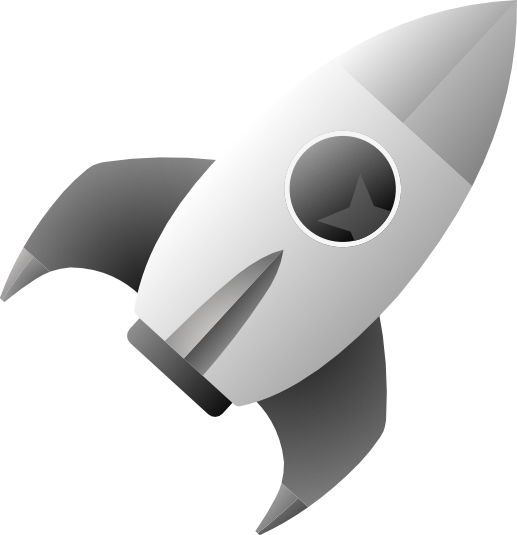
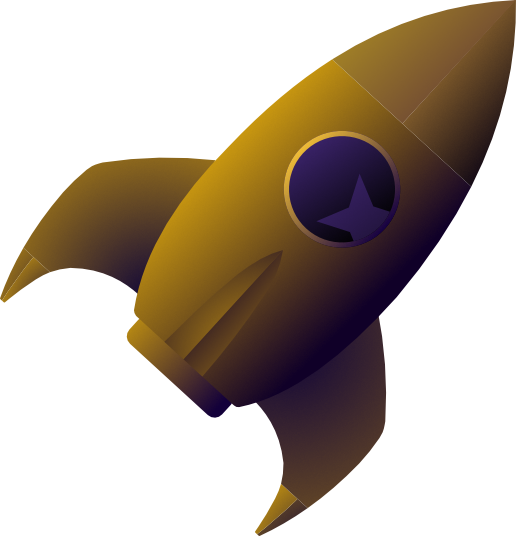
Initial coloured version test

diff --git a/music_space.js b/music_space.js
@@ -15,24 +15,14 @@ class Star {
     this.framesSinceChange = Math.random() * 400;
   }
   draw() {
-    fill(255, 255, 255, 255);
+    fill(227, 176, 48);
     ellipse(this.x, this.y, this.size, this.size);
   }
   drawSized(sizeMod, points) {
-    fill(255, 255, 255, 255);
+    fill(255, 208, 89);
     stroke(0, 0, 0, 40);
 
-    // if(this.framesSinceChange <= 0){
-
-    //     if(sizeMod > 0.3 && Math.random() > 0.5 && !this.changeSize){
-    //       this.changeSize = true;
-    //       this.framesSinceChange = 60;
-    //     } else if (sizeMod < 0.3 && Math.random() > 0.4 && this.changeSize){
-    //       this.changeSize = false;
-    //       this.framesSinceChange = 400;
-    //     }
-
-    // }
+    // change size every so often
     this.framesSinceChange--;
     if (this.framesSinceChange <= 0) {
       this.changeSize = !this.changeSize;
@@ -43,12 +33,8 @@ class Star {
     push()
     if (this.changeSize) {
       star(this.x, this.y, this.size * sizeMod, this.size * sizeMod * 0.25, points);
-      // this.drawStarGlow(sizeMod);
-
     } else {
       star(this.x, this.y, this.size * 0.4, this.size * 0.1, points);
-      // this.drawStarGlow(sizeMod);
-     
     }
     pop();
   }
@@ -59,7 +45,7 @@ class Star {
     // make overlay style ADD
     blendMode(ADD);
     radialGradient(this.x, this.y, 0,
-      this.x, this.y, this.size * sizeMod * 20, color(255, 255, 255, 3), color(0, 0, 0, 0));
+      this.x, this.y, this.size * sizeMod * 20, color(255, 208, 89, 3), color(0, 0, 0, 0));
     circle(this.x, this.y, this.size * sizeMod * 25 + 100);
     pop();
 
@@ -268,8 +254,8 @@ function drawPlanet(bass, counter) {
 
   // bottom layer
   push();
-  radialGradient(-planetSize / 2, -planetSize / 1.5, 0,
-    -planetSize / 2, -planetSize / 1.5, planetSize * 1.3, color(200), color(0));
+  radialGradient(-planetSize / 2, -planetSize / 1.5, planetSize/2,
+    -planetSize / 2, -planetSize / 1.5, planetSize * 1.3, color(227, 176, 48), color(0,0,0), color(63, 41, 207));
   circle(0, 0, planetSize - (bass / 5) + bassAmount / 10);
   pop();
 
@@ -278,7 +264,7 @@ function drawPlanet(bass, counter) {
   push();
   rotate(sin(counter / 300 - 2) / 4);
   noFill();
-  stroke(200);
+  stroke(138, 125, 227);
   strokeWeight(15);
 
   ellipse(0, 0, planetSize * 1.65 + bassAmount, planetSize * 0.4 + bassAmount / 2);
@@ -289,8 +275,8 @@ function drawPlanet(bass, counter) {
   push();
   noStroke();
   fill(255);
-  radialGradient(-planetSize / 2, -planetSize / 1.5, 0,
-    -planetSize / 2, -planetSize / 1.5, planetSize * 1.3, color(200), color(0));
+  radialGradient(-planetSize / 2, -planetSize / 1.5, planetSize/2,
+    -planetSize / 2, -planetSize / 1.5, planetSize * 1.3, color(227, 176, 48), color(0,0,0),  color(63, 41, 207));
   arc(0, 0, planetSize - (bass / 5) + bassAmount / 10, planetSize - (bass / 5) + bassAmount / 10, PI, PI * 2, CHORD);
   pop();
 
@@ -462,7 +448,9 @@ class Flame {
 
   display() {
     push();
-    fill(this.lightness, this.lightness, this.lightness, Math.min(this.opacity * 5 + this.startAlpha, this.life * 10));
+    colorMode(HSL, 255);
+    fill(30, 255, this.lightness * 0.7, Math.min(this.opacity * 5 + this.startAlpha, this.life * 10));
+    colorMode(RGB);
     noStroke();
     ellipse(this.pos.x, this.pos.y, this.radius);
     pop();
@@ -528,7 +516,8 @@ class Asteroid {
       0.5 * tan(this.time) * (this.offset + asteroidBeltRad) + asteroidBeltY);
     rotate(this.rotation);
     imageMode(CENTER);
-    fill(255, 255, 255, map(Math.abs(this.offset), 0, maxAsteroidSpread, 255, 0));
+    fill(138, 125, 227, map(Math.abs(this.offset), 0, maxAsteroidSpread, 255, 0));
+    
 
     // draw shape from vertices
     beginShape();
